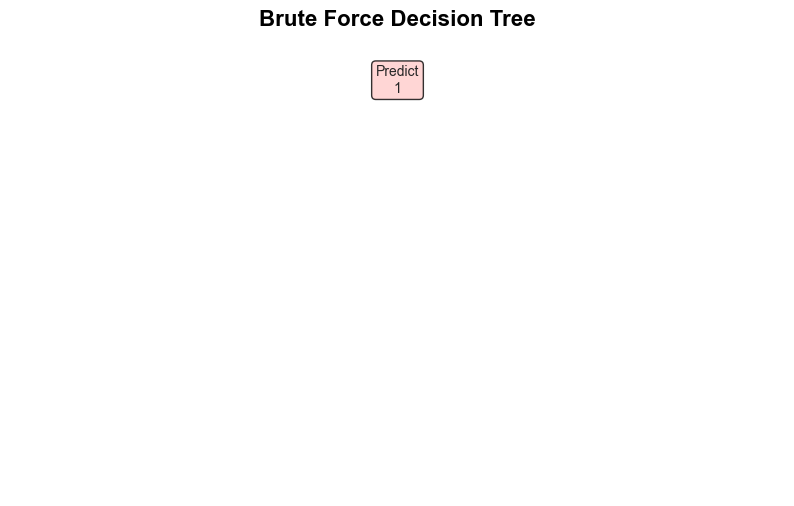
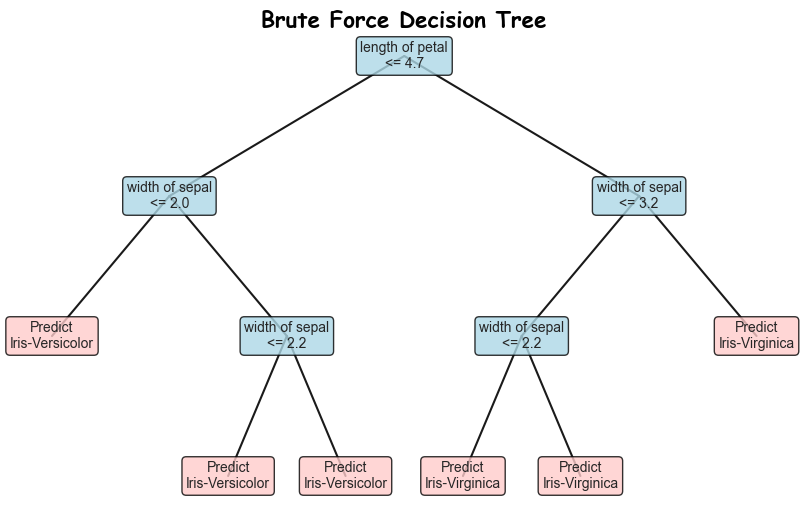
need to check the trees

diff --git a/Assignment 3/decision_tree.py b/Assignment 3/decision_tree.py
@@ -38,36 +38,37 @@ def error_rate(labels):
 
 def brute_force_decision_tree(data, labels, max_depth):
     """
-    Decision Tree using brute force to find the optimal solution.
-    Creates a tree structure using `Node` instances and calculates the error rate.
+    Decision Tree using brute-force to find the optimal solution.
+    Creates a tree structure using `Node` instances.
     """
     n_features = data.shape[1]  # Number of features
 
     def build_tree(data, labels, depth):
-        # עצירה אם אין נתונים או אם הגודל קטן מידי
+        # Stop if there is no data, max depth reached, or all labels are the same
         if len(data) == 0 or depth == max_depth or len(set(labels)) == 1:
-            prediction = Counter(labels).most_common(1)[0][0]  # תחזית הרוב
+            prediction = Counter(labels).most_common(1)[0][0]  # Majority prediction
             return Node(prediction=prediction)
 
-        best_split = None
-        lowest_error = float("inf")
-        best_feature, best_threshold = None, None
-        best_left, best_right = None, None
+        best_feature = None
+        best_threshold = None
+        best_left = None
+        best_right = None
+        lowest_error = float("inf")  # Start with a very large error to minimize
 
         for feature in range(n_features):
-            thresholds = np.unique(data[:, feature])  # כל הערכים הייחודים עבור הפיצול
+            thresholds = np.unique(data[:, feature])  # All unique values for the split
             for threshold in thresholds:
-                # פיצול הנתונים
+                # Split data into left and right based on the threshold
                 (left_data, left_labels), (right_data, right_labels) = split_data(data, labels, feature, threshold)
                 if len(left_labels) == 0 or len(right_labels) == 0:
-                    continue  # אם צד כלשהו ריק, דלג (אין טעם לפיצול כזה)
+                    continue  # Skip invalid splits (division that results in empty groups)
 
-                # חישוב הטעויות
+                # Calculate error for the current split
                 left_error = error_rate(left_labels)
                 right_error = error_rate(right_labels)
                 weighted_error = (len(left_labels) * left_error + len(right_labels) * right_error) / len(labels)
 
-                # שמירת הפיצול הטוב ביותר
+                # Update the best split
                 if weighted_error < lowest_error:
                     lowest_error = weighted_error
                     best_feature = feature
@@ -75,12 +76,12 @@ def brute_force_decision_tree(data, labels, max_depth):
                     best_left = (left_data, left_labels)
                     best_right = (right_data, right_labels)
 
-        # אם לא מצאנו פיצול ניתן להחזיק תחזית על הקבוצה הנוכחית כעלה
-        if best_split is None:
+        # If no split found, return a leaf node with majority prediction
+        if best_feature is None:
             prediction = Counter(labels).most_common(1)[0][0]
             return Node(prediction=prediction)
 
-        # בניית צומת חדשה
+        # Create a new node and recursively build subtrees
         root = Node()
         root.feature = best_feature
         root.threshold = best_threshold
@@ -88,16 +89,17 @@ def brute_force_decision_tree(data, labels, max_depth):
         root.right = build_tree(*best_right, depth + 1)
         return root
 
+    # Build the tree starting from depth 0
     tree = build_tree(data, labels, 0)
 
-    # מחשבים את שיעור הטעויות
+    # Calculate the error rate for the built tree
     def calculate_tree_error(tree, data, labels):
         """
-        פונקציה פנימית לחישוב שיעור הטעויות של העץ.
+        Helper function to calculate the error rate of a decision tree.
         """
 
         def predict(node, sample):
-            if node.prediction is not None:
+            if node.prediction is not None:  # If it’s a leaf node, return the prediction
                 return node.prediction
             if sample[node.feature] <= node.threshold:
                 return predict(node.left, sample)
@@ -110,6 +112,7 @@ def brute_force_decision_tree(data, labels, max_depth):
     brute_error = calculate_tree_error(tree, data, labels)
 
     return tree, brute_error
+
 
 
 # Binary Entropy Decision Tree

diff --git a/Assignment 3/visualize_tree.py b/Assignment 3/visualize_tree.py
@@ -16,7 +16,10 @@ def draw_tree(ax, node, x, y, x_offset, y_offset, level=0):
 
     # Node text (feature, threshold, or prediction)
     if node.prediction is not None:
-        text = f"Predict\n{node.prediction}"
+        # Map the prediction (1 or 2) to the actual class names
+        label_map = {1: "Iris-Versicolor", 2: "Iris-Virginica"}
+        prediction_text = label_map.get(node.prediction, f"Unknown ({node.prediction})")
+        text = f"Predict\n{prediction_text}"
         color = "#FFCCCB"  # Light Coral
     else:
         feature_names = {0: 'width of sepal', 1: 'length of petal'}
@@ -56,8 +59,8 @@ def visualize_tree_with_matplotlib(tree, filename, title, bg_color):
     # Draw the tree
     draw_tree(ax, tree, x, y, x_offset, y_offset)
 
-    # Add title
-    ax.set_title(title, fontsize=16, fontweight="bold", color="black")
+    # Add title with handwriting style
+    ax.set_title(title, fontsize=16, fontweight="bold", color="black", fontname="Comic Sans MS")  # Change the font!
 
     # Save the visualization
     plt.savefig(f"{filename}.png", bbox_inches="tight")
